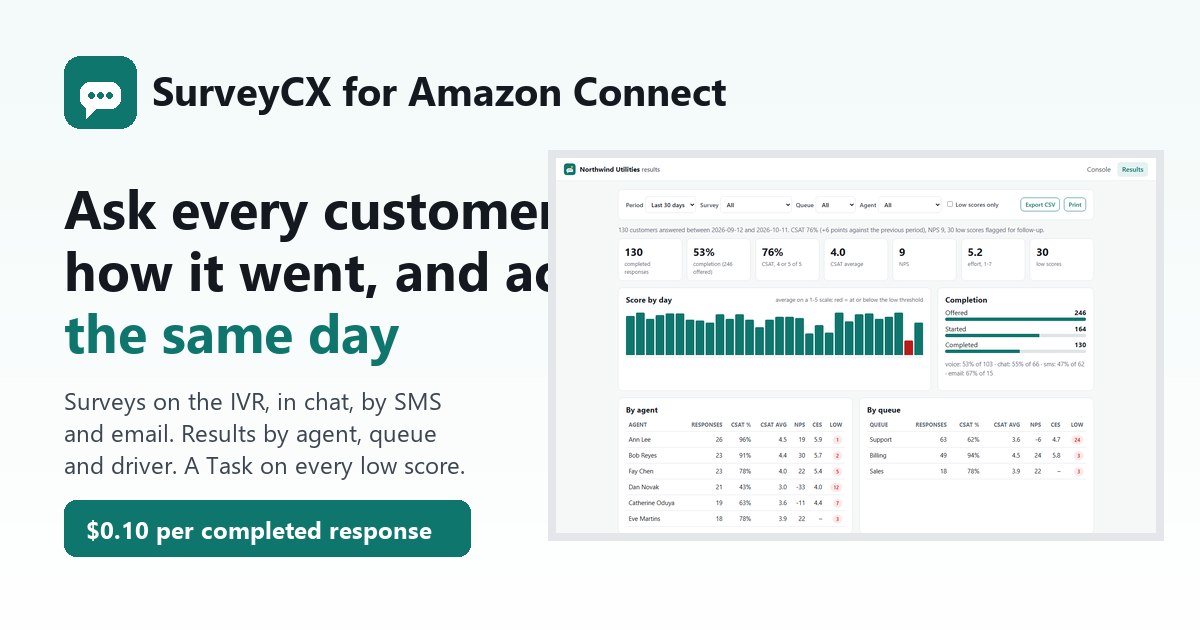
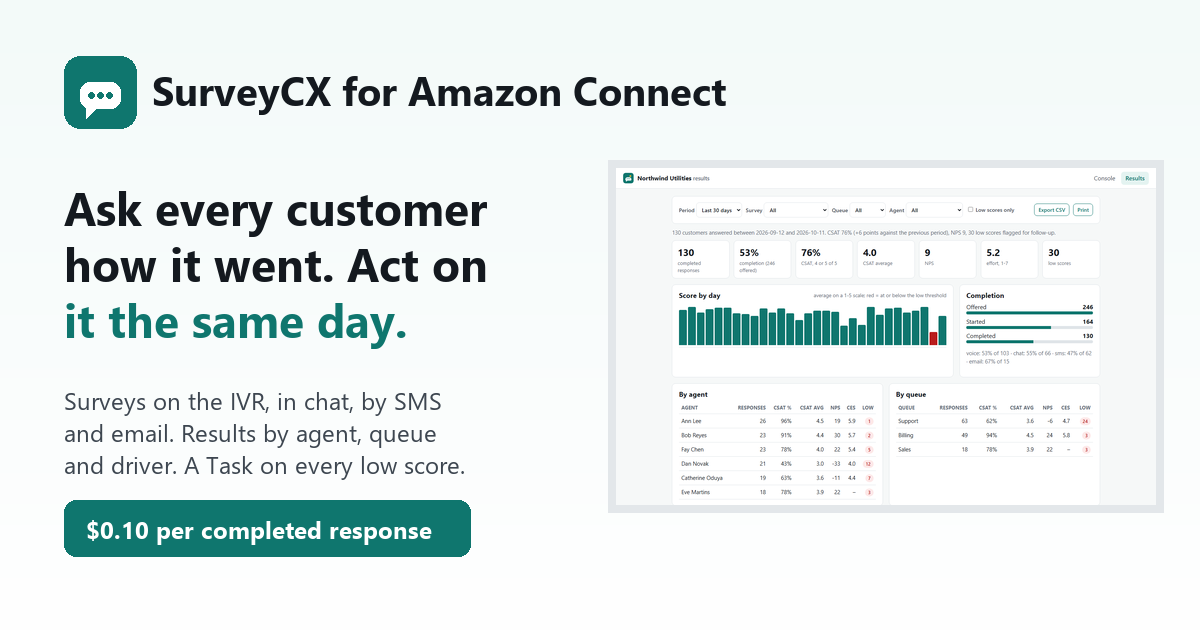
OG image: headline clear of the screenshot

diff --git a/web/make-og.py b/web/make-og.py
@@ -26,9 +26,9 @@ d.polygon([(86, 106), (86, 118), (96, 108)], fill='#FFFFFF')
 for x in (91, 100, 109):
     d.ellipse([x - 3, 92, x + 3, 98], fill='#0F766E')
 d.text((152, 62), 'SurveyCX for Amazon Connect', font=font(40), fill='#14191F')
-d.text((64, 170), 'Ask every customer', font=font(54), fill='#14191F')
-d.text((64, 232), 'how it went, and act', font=font(54), fill='#14191F')
-d.text((64, 294), 'the same day', font=font(54), fill='#0F766E')
+d.text((64, 176), 'Ask every customer', font=font(46), fill='#14191F')
+d.text((64, 232), 'how it went. Act on', font=font(46), fill='#14191F')
+d.text((64, 288), 'it the same day.', font=font(46), fill='#0F766E')
 d.text((64, 384), 'Surveys on the IVR, in chat, by SMS', font=font(24, False), fill='#3D4650')
 d.text((64, 416), 'and email. Results by agent, queue', font=font(24, False), fill='#3D4650')
 d.text((64, 448), 'and driver. A Task on every low score.', font=font(24, False), fill='#3D4650')
@@ -36,12 +36,12 @@ d.rounded_rectangle([64, 500, 470, 556], radius=12, fill='#0F766E')
 d.text((86, 513), '$0.10 per completed response', font=font(24), fill='#FFFFFF')
 
 shot = Image.open(os.path.join(here, 'img', 'results.png')).convert('RGB')
-sw = 600
+sw = 540
 sh = int(shot.height * sw / shot.width)
 shot = shot.resize((sw, sh), Image.LANCZOS)
 frame = Image.new('RGB', (sw + 16, min(sh, 470) + 16), '#E3E7EA')
 frame.paste(shot.crop((0, 0, sw, min(sh, 470))), (8, 8))
-img.paste(frame, (W - sw - 16 - 36, 150))
+img.paste(frame, (W - sw - 16 - 36, 160))
 out = os.path.join(here, 'img', 'og.png')
 img.save(out, optimize=True)
 print('wrote', out, os.path.getsize(out) // 1024, 'KB')
